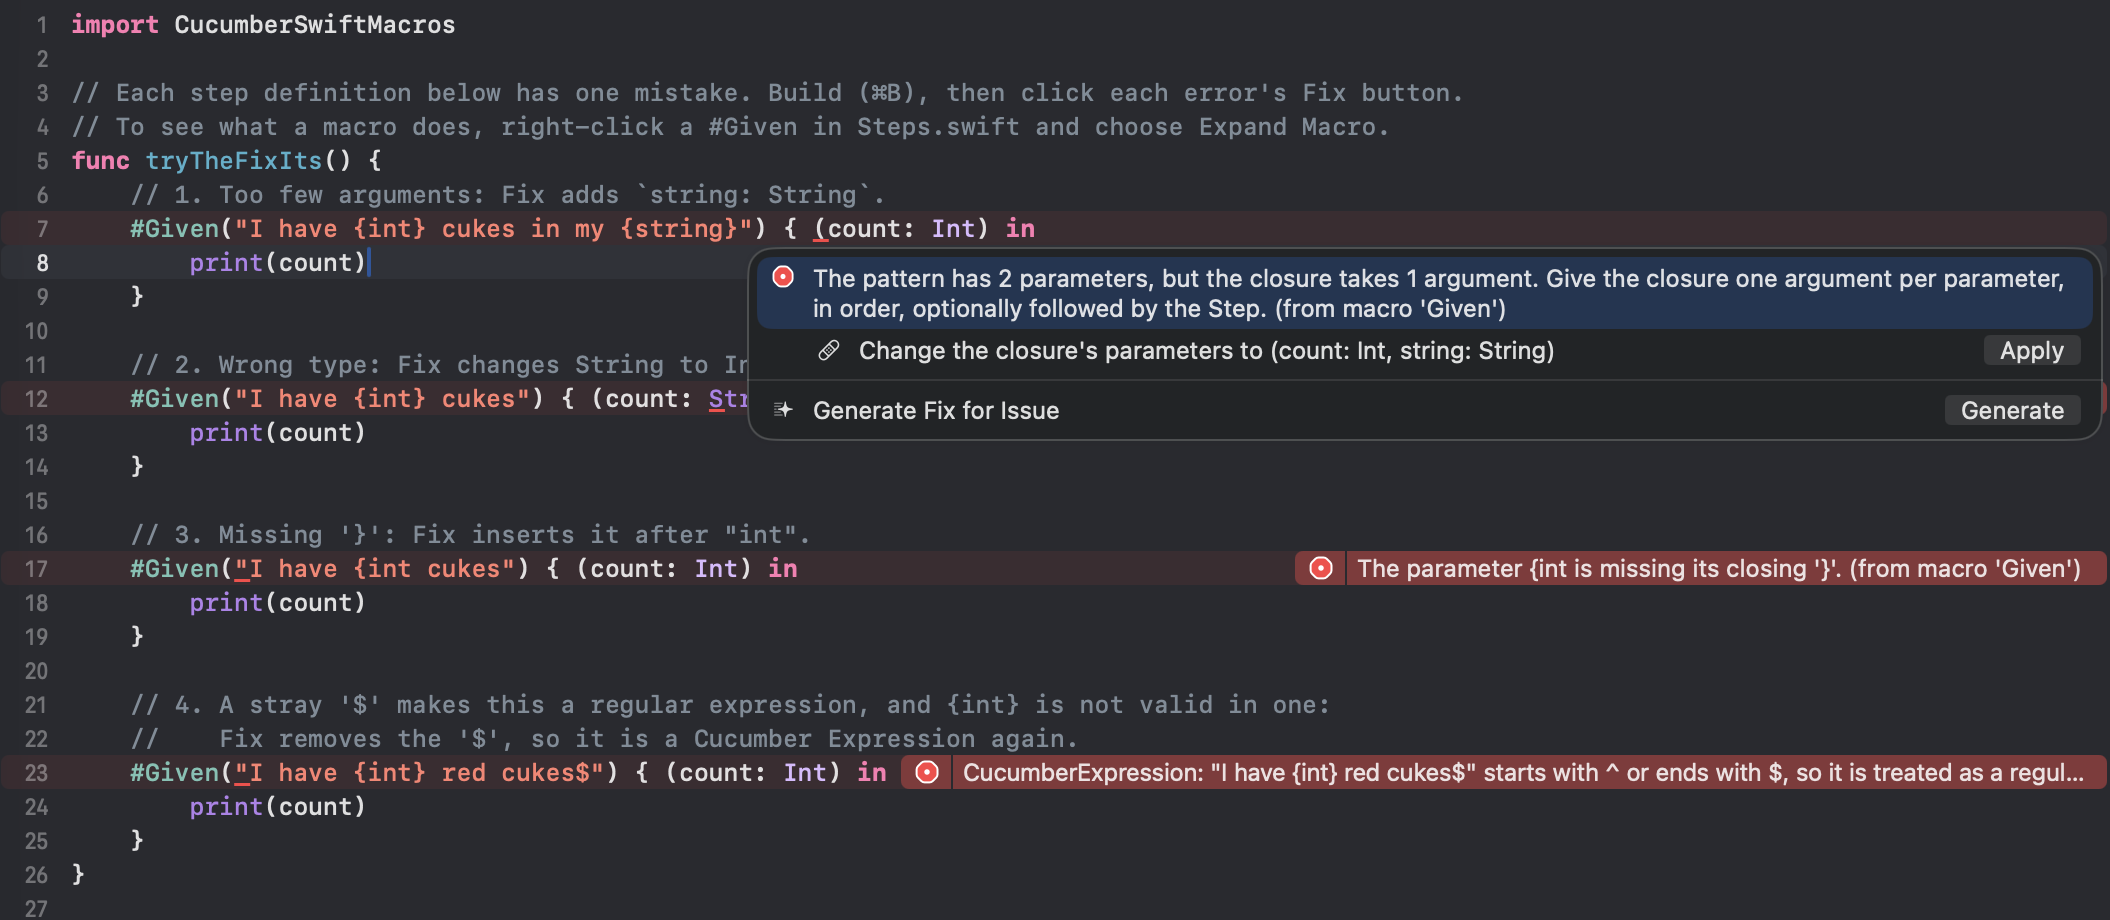
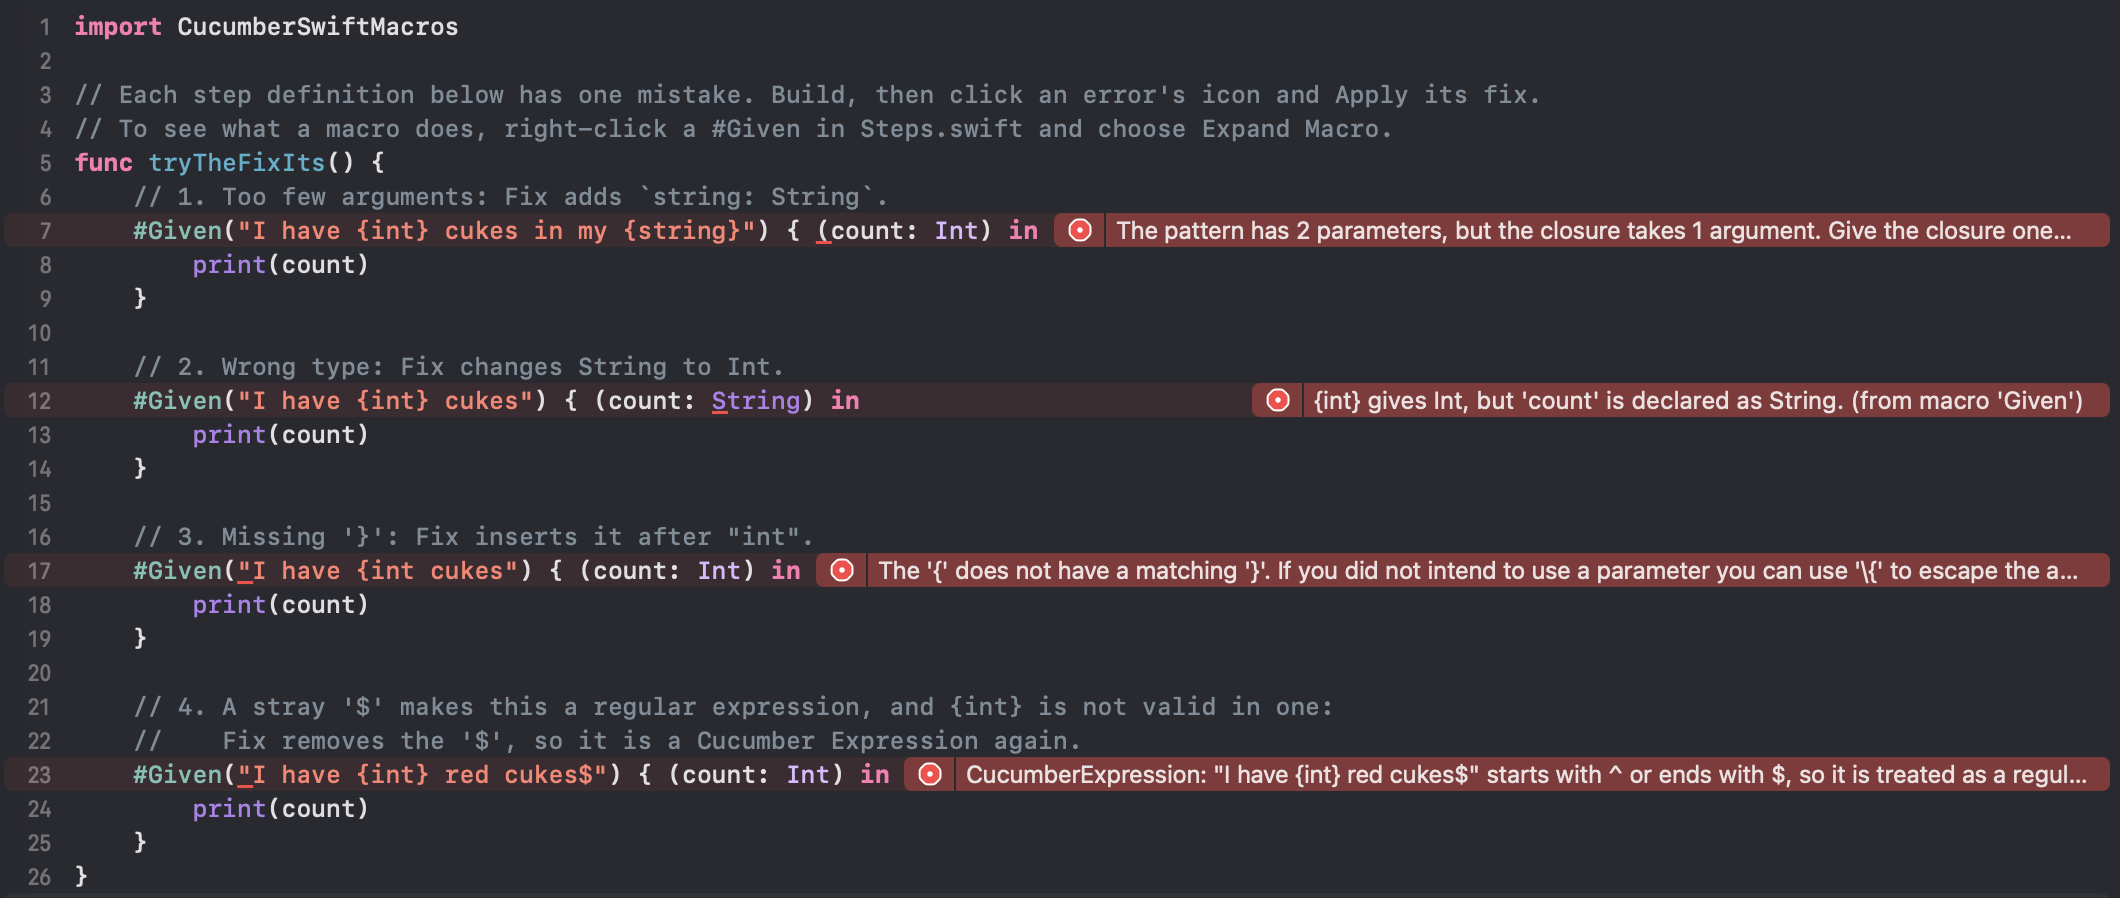
docs: retake the step definition macros screenshot with the current messages (#274)
The missing '}' message changed with CucumberSwiftExpressions 1.4.0. The
new screenshot shows all four mistakes with today's messages, and its alt
text says so.

diff --git a/Sources/CucumberSwift/CucumberSwift.docc/Checking-Step-Definitions.md b/Sources/CucumberSwift/CucumberSwift.docc/Checking-Step-Definitions.md
@@ -138,7 +138,7 @@ Every localized step definition has a macro too, with the same name: `#ES_Dado` 
 
 Each mistake is an error on its own line. Click the error's icon to see the whole message and, where there is one, the fix: click **Apply** to make the change.
 
-![A Swift file in Xcode with three step definition macros marked as errors. The popover for the first, a closure that takes one argument for a pattern with two parameters, offers to change the closure's parameters to "(count: Int, string: String)", with an Apply button. The others show "The parameter {int is missing its closing '}'" and that a pattern ending in "$" is treated as a regular expression that is not valid.](CheckingStepDefinitions-FixIt.png)
+![A Swift file in Xcode with four step definition macros marked as errors, each message shown on its line: the pattern has 2 parameters but the closure takes 1 argument; {int} gives Int but 'count' is declared as String; the '{' does not have a matching '}'; and a pattern ending in "$" is treated as a regular expression that is not valid.](CheckingStepDefinitions-FixIt.png)
 
 | Mistake | Example | Fix |
 |---|---|---|
